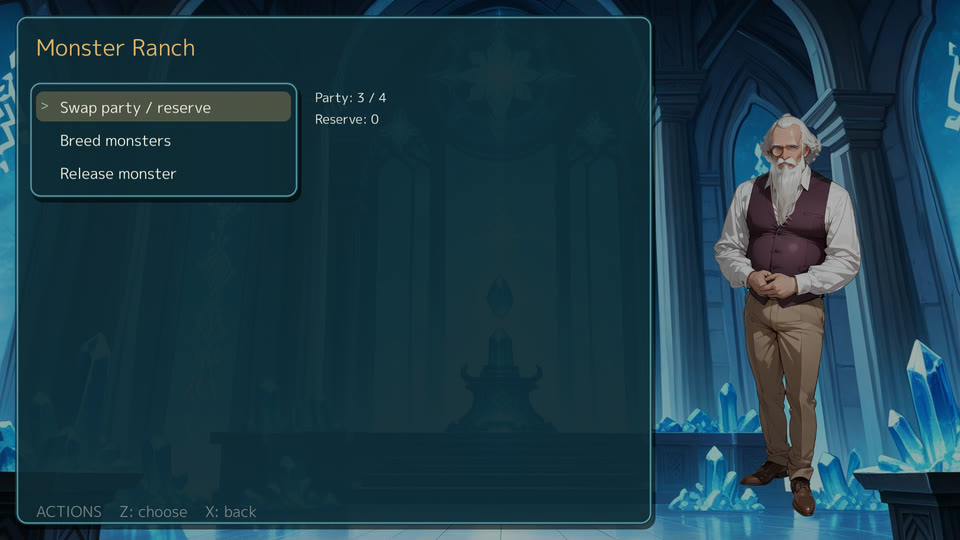
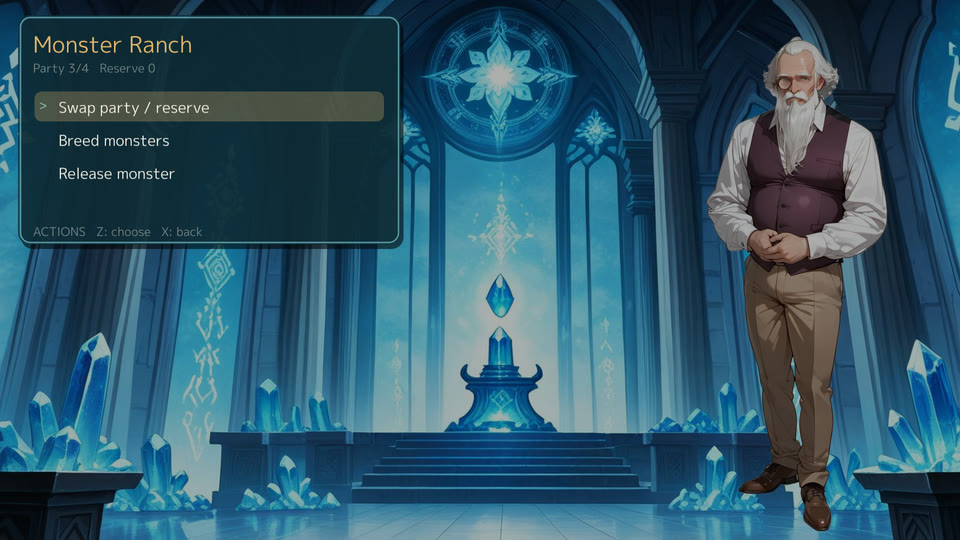
fix(play): put ancestors above the child, give Yorn the stage, and shoot the recruit question

diff --git a/internal/play/ranch.go b/internal/play/ranch.go
@@ -23,6 +23,29 @@ type ranch struct {
 	done          func()
 }
 
+type ranchLayout struct {
+	panelX, panelY, panelW, panelH float64
+	figureX, figureBottom, figureH float64
+	detailY                        float64
+	rows                           int
+}
+
+func ranchScreenLayout(sw, sh float64, step string, items int) ranchLayout {
+	l := ranchLayout{
+		panelX: 24, panelY: 20, panelW: min(510, sw*0.55),
+		figureX: sw * 0.83, figureBottom: sh - 10, figureH: sh * 0.92,
+	}
+	if step == "actions" {
+		l.rows = 3
+		l.panelH = 306
+	} else {
+		l.rows = min(6, max(3, int((sh-300)/44)))
+		l.panelH = sh - 40
+	}
+	l.detailY = 120 + float64(min(l.rows, max(1, items)))*44 + 16
+	return l
+}
+
 func newRanch(g *Game, done func()) *ranch {
 	r := &ranch{done: done}
 	r.show(g, "actions")
@@ -86,7 +109,9 @@ func (r *ranch) show(g *Game, step string) {
 		}
 		add("confirm", "Confirm fusion")
 	}
-	r.list = newList(items, 38, 108, 360, 10)
+	sw, sh := g.screen()
+	l := ranchScreenLayout(sw, sh, step, len(items))
+	r.list = newList(items, l.panelX+12, 108, l.panelW-24, l.rows)
 	r.list.size = sizeS
 }
 
@@ -227,11 +252,10 @@ func (g *Game) childName(species string) string {
 	return g.db.Enemies[species].Name
 }
 
-// drawParents stands the chosen (or highlighted) parents on the right, where the location's
-// picture shows through. The child is only a dark shape until the book has seen it.
+// drawParents previews the chosen monsters in the gap beside the ranch panel.
 func (r *ranch) drawParents(g *Game, dst *ebiten.Image) {
 	sw, sh := g.screen()
-	if sw < 1100 || r.step == "actions" {
+	if r.step == "actions" {
 		return
 	}
 	hovered := ""
@@ -245,8 +269,12 @@ func (r *ranch) drawParents(g *Game, dst *ebiten.Image) {
 	case "breed_second":
 		b = hovered
 	}
-	x0 := 880.0
-	area := sw - x0 - 40
+	l := ranchScreenLayout(sw, sh, r.step, len(r.options))
+	x0 := l.panelX + l.panelW + 14
+	area := max(0, min(180, l.figureX-sh*0.16-x0-10))
+	if area < 70 {
+		return
+	}
 	for i, id := range []string{a, b} {
 		inst := g.st.Actors[id]
 		if inst == nil || inst.Monster == "" {
@@ -256,32 +284,35 @@ func (r *ranch) drawParents(g *Game, dst *ebiten.Image) {
 		if e == nil {
 			continue
 		}
-		drawBestiaryImage(g, dst, e.Image.File, x0+float64(i)*area/2+20, sh-640, area/2-40, 560)
+		previewH := min(190, sh*0.35)
+		drawBestiaryImage(g, dst, e.Image.File, x0+float64(i)*area/2, sh-previewH-40, area/2-4, previewH)
 	}
 }
 
 func (r *ranch) draw(g *Game, dst *ebiten.Image) {
 	sw, sh := g.screen()
+	l := ranchScreenLayout(sw, sh, r.step, len(r.options))
 	if g.st != nil {
 		if loc := g.db.Locations[g.st.Location]; loc != nil {
 			g.drawPicture(dst, loc.Background, 0, 0, sw, sh, 1)
 			for _, person := range loc.People {
 				if person.Image != "" {
-					g.drawStanding(dst, person.Image, sw*0.82, sh-30, sh*0.75, 1, false, nil)
+					g.drawStanding(dst, person.Image, l.figureX, l.figureBottom, l.figureH, 1, false, nil)
 					break
 				}
 			}
 		}
 	}
 	fill(dst, color.NRGBA{0, 0, 0, 0x50})
-	panelW := min(sw-40, 850.0)
-	g.window(dst, 20, 20, panelW, sh-40)
+	g.window(dst, l.panelX, l.panelY, l.panelW, l.panelH)
 	r.drawParents(g, dst)
-	g.text(dst, "Monster Ranch", 48, 42, sizeL, g.th.accent)
-	r.list.draw(g, dst, true)
-	x := 420.0
-	y := 118.0
-	lines := []string{fmt.Sprintf("Party: %d / %d", len(g.st.Party), g.db.Game.MaxParty), fmt.Sprintf("Reserve: %d", len(g.st.ReserveIDs()))}
+	g.text(dst, "Monster Ranch", l.panelX+20, l.panelY+18, sizeL, g.th.accent)
+	g.text(dst, fmt.Sprintf("Party %d/%d   Reserve %d", len(g.st.Party), g.db.Game.MaxParty, len(g.st.ReserveIDs())), l.panelX+20, l.panelY+60, sizeS*0.8, g.th.dim)
+	g.traceList(r.list)
+	r.list.drawRows(g, dst, true)
+	x := l.panelX + 20
+	y := l.detailY
+	lines := []string{}
 	if a := g.st.Actors[r.first]; a != nil {
 		lines = append(lines, "First: "+r.label(g, r.first))
 	}
@@ -325,9 +356,9 @@ func (r *ranch) draw(g *Game, dst *ebiten.Image) {
 		}
 	}
 	for _, line := range lines {
-		fit, sz := gfx.FitLines(line, sizeS*0.85, panelW-x-28, 2)
+		fit, sz := gfx.FitLines(line, sizeS*0.8, l.panelW-40, 2)
 		for _, part := range fit {
-			if y+gfx.LineHeight(sz) > sh-80 {
+			if y+gfx.LineHeight(sz) > l.panelY+l.panelH-42 {
 				break
 			}
 			g.text(dst, part, x, y, sz, g.th.text)
@@ -335,7 +366,7 @@ func (r *ranch) draw(g *Game, dst *ebiten.Image) {
 		}
 		y += 5
 	}
-	g.text(dst, strings.ToUpper(strings.ReplaceAll(r.step, "_", " "))+"    Z: choose    X: back", 48, sh-52, sizeS, g.th.dim)
+	g.text(dst, strings.ToUpper(strings.ReplaceAll(r.step, "_", " "))+"   Z: choose   X: back", x, l.panelY+l.panelH-28, sizeS*0.8, g.th.dim)
 }
 
 var (

diff --git a/internal/play/bestiary.go b/internal/play/bestiary.go
@@ -84,7 +84,7 @@ func (s *bestiaryScreen) modal() bool { return true }
 type lineageTile struct {
 	node       *data.LineageNode
 	x, y, w, h float64
-	parent     int // index of the tile below which this parent is shown
+	parent     int // index of this tile's descendant in the next row
 }
 
 func (s *bestiaryScreen) lineageTiles(x, top, w, h float64) []lineageTile {
@@ -96,11 +96,13 @@ func (s *bestiaryScreen) lineageTiles(x, top, w, h float64) []lineageTile {
 		return nil
 	}
 	// Four equal slots leave room for the four grandparents without horizontal scrolling.
-	gap := 12.0
-	cardW := min(172, (w-48-3*gap)/4)
-	cardH := min(132, (h-98)/3-12)
+	gap := 14.0
+	cardW := min(184, (w-48-3*gap)/4)
+	cardH := min(126, (h-90)/3)
 	left := x + (w-4*cardW-3*gap)/2
-	rowY := func(row int) float64 { return top + 62 + float64(row)*(h-98)/3 }
+	// Reserve the header and a bottom margin, then spread the three generations.
+	rowStep := (h - 70 - 20 - cardH) / 2
+	rowY := func(row int) float64 { return top + 70 + float64(2-row)*rowStep }
 	place := func(n *data.LineageNode, row int, center float64) lineageTile {
 		return lineageTile{node: n, x: center - cardW/2, y: rowY(row), w: cardW, h: cardH, parent: -1}
 	}
@@ -177,7 +179,7 @@ func (s *bestiaryScreen) updateTree(g *Game) {
 	}
 }
 
-// nextRecipe switches only the species at the top of the view.
+// nextRecipe switches only the species at the bottom of the view.
 func (s *bestiaryScreen) nextRecipe(g *Game) {
 	n := s.lineage.Tree(s.root, s.choice)
 	if n == nil || n.Choices < 2 {
@@ -401,7 +403,7 @@ func speciesSexText(sex string) string {
 	}
 }
 
-// drawLineage shows seven pictures at most: child, parents and grandparents.
+// drawLineage shows seven pictures at most: grandparents, parents and child.
 func (s *bestiaryScreen) drawLineage(g *Game, dst *ebiten.Image, x, top, w, h float64) {
 	bestiaryPanel(g, dst, x, top, w, h)
 	tiles := s.lineageTiles(x, top, w, h)
@@ -432,11 +434,11 @@ func (s *bestiaryScreen) drawLineage(g *Game, dst *ebiten.Image, x, top, w, h fl
 	}
 	if len(tiles) > 1 {
 		for i := 1; i < min(3, len(tiles)); i++ {
-			connect(tiles[0], tiles[i])
+			connect(tiles[i], tiles[0])
 		}
 	}
 	for i := 3; i < len(tiles); i++ {
-		connect(tiles[tiles[i].parent], tiles[i])
+		connect(tiles[i], tiles[tiles[i].parent])
 	}
 	for i, tile := range tiles {
 		s.drawLineageTile(g, dst, tile, s.inTree && i == s.cur)
@@ -496,7 +498,7 @@ func (s *bestiaryScreen) drawLineageTile(g *Game, dst *ebiten.Image, tile lineag
 	case data.RecipeFamily:
 		caption = g.db.MonsterFamilies[n.Recipe.Families[0]] + " x " + g.db.MonsterFamilies[n.Recipe.Families[1]]
 	case data.RecipePair:
-		caption = "Parents pictured below"
+		caption = "Parents pictured above"
 	}
 	g.text(dst, gfx.Ellipsis(caption, sizeS*0.53, tile.w-12), tile.x+6, tile.y+tile.h-21, sizeS*0.53, g.th.dim)
 	if n.Recipe.Kind == data.RecipeFamily {

diff --git a/internal/play/ranch_test.go b/internal/play/ranch_test.go
@@ -84,3 +84,55 @@ func TestRanchPreviewAndFusionCommand(t *testing.T) {
 		t.Fatalf("fusion state = %+v", g.st.Actors)
 	}
 }
+
+func TestRanchLayoutLeavesAltarVisible(t *testing.T) {
+	for _, screen := range [][2]float64{{960, 540}, {1280, 720}} {
+		sw, sh := screen[0], screen[1]
+		actions := ranchScreenLayout(sw, sh, "actions", 3)
+		selection := ranchScreenLayout(sw, sh, "breed_first", 8)
+		if actions.panelW > 510 || actions.panelH >= sh*0.65 {
+			t.Fatalf("actions panel is too large at %.0fx%.0f: %+v", sw, sh, actions)
+		}
+		if actions.panelX+actions.panelW+100 >= actions.figureX {
+			t.Fatalf("no visible altar between menu and Yorn at %.0fx%.0f: %+v", sw, sh, actions)
+		}
+		if actions.figureH < sh*0.9 || actions.figureBottom > sh || actions.figureBottom-actions.figureH < 0 {
+			t.Fatalf("Yorn does not fit near full height at %.0fx%.0f: %+v", sw, sh, actions)
+		}
+		if selection.panelX+selection.panelW+100 >= selection.figureX || selection.panelY+selection.panelH > sh {
+			t.Fatalf("selection obscures Yorn or leaves screen at %.0fx%.0f: %+v", sw, sh, selection)
+		}
+	}
+}
+
+func TestScriptedEventBattleReachesRecruitChoice(t *testing.T) {
+	fsys := gameFiles(t)
+	for path, body := range testgame.MonsterFiles() {
+		if path == "data/main.yaml" {
+			body = strings.Replace(body, "recruit: {chance: 1,", "recruit: {chance: 0.001,", 1)
+		}
+		fsys[path] = &fstest.MapFile{Data: []byte(body)}
+	}
+	fsys["game.yaml"] = &fstest.MapFile{Data: []byte(testgame.MonsterFiles()["game.yaml"] + "\nfonts: {regular: test.ttf}\n")}
+	g, err := New(Options{
+		FS: fsys, NoSound: true, Development: true, Location: "camp", Level: 6, Seed: 7,
+		SaveDir: t.TempDir(), ShotDir: t.TempDir(),
+		Script: "guarantee-recruit mote\ndo battle: one\nplay join 5\nwait 4\nquit\n",
+	})
+	if err != nil {
+		t.Fatal(err)
+	}
+	defer func() { _ = g.Close() }()
+	for i := 0; i < 10000; i++ {
+		if err := g.Update(); err != nil {
+			t.Fatal(err)
+		}
+		if g.in.script.pc >= 3 {
+			if !g.talk.active || g.talk.choice == nil || !strings.Contains(g.talk.asked.Prompt, "Mote") {
+				t.Fatalf("script stopped before recruit choice: pc=%d, waiting=%v", g.in.script.pc, g.talk.choice)
+			}
+			return
+		}
+	}
+	t.Fatal("script never reached the recruit choice")
+}

diff --git a/internal/play/bestiary_test.go b/internal/play/bestiary_test.go
@@ -61,9 +61,9 @@ func TestBestiaryPictureLineageNavigationAndHistory(t *testing.T) {
 	if len(tiles) != 3 || tiles[1].node.Species != "mote" || tiles[2].node.Species != "mote" {
 		t.Fatalf("picture nodes = %+v", tiles)
 	}
-	pressBestiary(g, s, btnDown)
+	pressBestiary(g, s, btnUp)
 	if s.cur != 1 {
-		t.Fatalf("down cursor = %d", s.cur)
+		t.Fatalf("up cursor = %d", s.cur)
 	}
 	pressBestiary(g, s, btnRight)
 	if s.cur != 2 {
@@ -73,11 +73,11 @@ func TestBestiaryPictureLineageNavigationAndHistory(t *testing.T) {
 	if s.cur != 1 {
 		t.Fatalf("left cursor = %d", s.cur)
 	}
-	pressBestiary(g, s, btnUp)
-	if s.cur != 0 {
-		t.Fatalf("up cursor = %d", s.cur)
-	}
 	pressBestiary(g, s, btnDown)
+	if s.cur != 0 {
+		t.Fatalf("down cursor = %d", s.cur)
+	}
+	pressBestiary(g, s, btnUp)
 	pressBestiary(g, s, btnRight)
 	pressBestiary(g, s, btnOK)
 	if s.root != "mote" || s.cur != 0 || len(s.history) != 1 || len(s.lineageTiles(322, 104, 930, 535)) != 1 {
@@ -118,7 +118,7 @@ func TestBestiaryPictureLineageRecipeAndUnseen(t *testing.T) {
 	if s.speciesName(g, "mote", !g.bestiarySeen("mote")) != "?" {
 		t.Fatal("unseen name revealed")
 	}
-	pressBestiary(g, s, btnDown)
+	pressBestiary(g, s, btnUp)
 	pressBestiary(g, s, btnBack)
 	if !s.inTree {
 		t.Fatal("unseen page opened")
@@ -198,6 +198,15 @@ func TestBestiaryFitsBothScreenSizes(t *testing.T) {
 			if tile.x < 322+20 || tile.y < 104+50 || tile.x+tile.w > sw-28 || tile.y+tile.h > sh-90 {
 				t.Fatalf("picture escapes panel at %dx%d: %+v", w, h, tile)
 			}
+		}
+		if !(tiles[3].y < tiles[1].y && tiles[1].y < tiles[0].y) {
+			t.Fatalf("generation order at %dx%d: child %.1f parent %.1f grandparent %.1f", w, h, tiles[0].y, tiles[1].y, tiles[3].y)
+		}
+		if tiles[1].y-(tiles[3].y+tiles[3].h) < 30 || tiles[0].y-(tiles[1].y+tiles[1].h) < 30 {
+			t.Fatalf("generation gaps are too narrow at %dx%d", w, h)
+		}
+		if tiles[0].w < 180 || tiles[0].h < 120 {
+			t.Fatalf("child picture is too small at %dx%d: %+v", w, h, tiles[0])
 		}
 	}
 }

diff --git a/scripts/check-go-zen-recruit.py b/scripts/check-go-zen-recruit.py
@@ -1,0 +1,16 @@
+"""Reject a recruit capture that stopped before the post-battle choice."""
+
+import json
+import pathlib
+import sys
+
+
+run = pathlib.Path(sys.argv[1])
+events = [json.loads(line) for line in (run / "trace.jsonl").read_text().splitlines()]
+won = any(event.get("t") == "battle_end" and event.get("result") == "won" for event in events)
+choices = [event for event in events if event.get("t") == "say" and event.get("choices")]
+recruit = bool(choices) and choices[-1].get("text") == "Let Drip Slime join?"
+if not won or not recruit or choices[-1].get("choices") != ["Yes", "No"]:
+    sys.exit("capture did not stop at the Drip Slime recruitment choice")
+if not (run / "s-rise.png").is_file():
+    sys.exit("capture did not write s-rise.png")

diff --git a/docs/decisions/0036-monster-collection.md b/docs/decisions/0036-monster-collection.md
@@ -32,7 +32,7 @@ Each monster species may set `sex: any|male|female` (default `any`). `sex_ratio`
 
 ## Family trees and the altar
 
-The monster book shows a buildable lineage for each obtainable species. A captured leaf names encounter locations; a specific pair names both parent species; a family rule names both families and the concrete parent species selected for that route. The shortest route is the default. The screen shows a picture tree of the current species, its two parents and four grandparents, with connector lines. Arrow keys choose any picture; confirm makes it the top of a new two-generation view, and back restores the previous view from a history stack. A breadcrumb shows that path. Tab switches recipes of the top species, while Q opens the selected known species page. Parent cards with deeper recipes carry a `more` mark. A capture card names its encounter location; a family card names the families and an example pair. Unknown species appear as `?`, while development play reveals all nodes. `gozen book` keeps its complete indented text tree and `--format json` exports the full tree with recipe choices and references. A species with only cycling recipes has no buildable tree and is included in GZN0116 reachability warnings.
+The monster book shows a buildable lineage for each obtainable species. A captured leaf names encounter locations; a specific pair names both parent species; a family rule names both families and the concrete parent species selected for that route. The shortest route is the default. The screen shows a picture tree with grandparents above parents and the current species at the bottom, joined by downward connector lines. Arrow keys choose any picture; confirm makes it the bottom of a new two-generation view, and back restores the previous view from a history stack. A breadcrumb shows that path. Tab switches recipes of the bottom species, while Q opens the selected known species page. Parent cards with deeper recipes carry a `more` mark. A capture card names its encounter location; a family card names the families and an example pair. Unknown species appear as `?`, while development play reveals all nodes. `gozen book` keeps its complete indented text tree and `--format json` exports the full tree with recipe choices and references. A species with only cycling recipes has no buildable tree and is included in GZN0116 reachability warnings.
 
 Go Zen places Yorn and the ranch in a safe Breeding Altar location. Its background remains visible behind the ranch, and the shared breeding command stages the two parents fading, a flash, and the child's appearance at that location. The scene uses the same state transition when invoked by a script or the screen.
 
